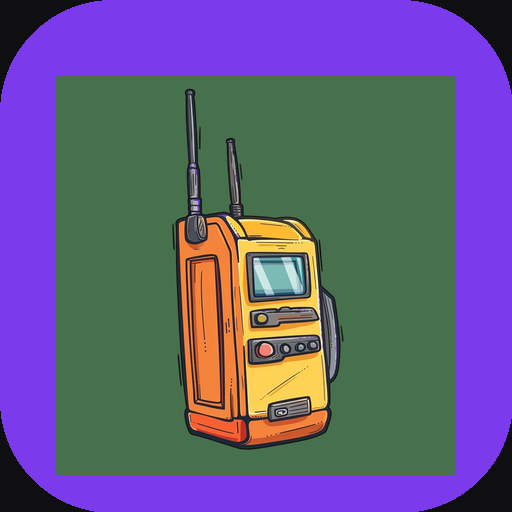
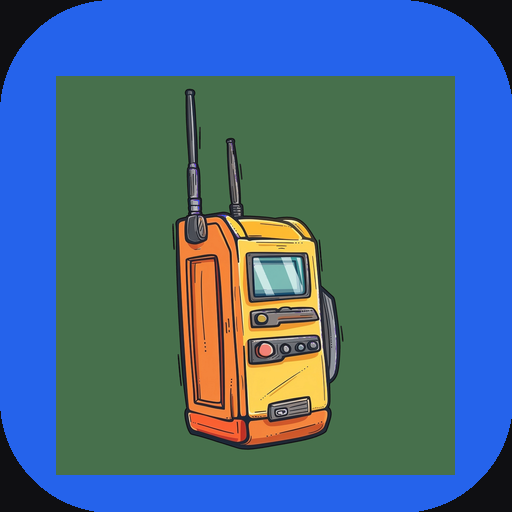
Rebrand theme from purple to PTT Group blue
Swap the brand color token (#7c3aed -> #2563eb) that drives buttons,
accents, borders and focus glow app-wide, plus theme-color meta,
manifest.json, scrollbar hover, and the purple frame baked into the
app icons. Leaves the Supasit@1981th footer signature's violet
accent untouched since it's a personal mark, not the app theme.
Bump SW cache to v4.

diff --git a/index.html b/index.html
@@ -7,7 +7,7 @@
 
   <!-- PWA Manifest -->
   <link rel="manifest" href="./manifest.json" />
-  <meta name="theme-color" content="#7c3aed" />
+  <meta name="theme-color" content="#2563eb" />
   <meta name="apple-mobile-web-app-capable" content="yes" />
   <meta name="apple-mobile-web-app-status-bar-style" content="black-translucent" />
 
@@ -30,10 +30,10 @@
           },
           colors: {
             brand: {
-              DEFAULT: '#7c3aed',
-              light: '#a78bfa',
-              dark: '#5b21b6',
-              glow: 'rgba(124, 58, 237, 0.15)'
+              DEFAULT: '#2563eb',
+              light: '#60a5fa',
+              dark: '#1e40af',
+              glow: 'rgba(37, 99, 235, 0.15)'
             },
             surface: {
               page: '#0f0f12',
@@ -66,7 +66,7 @@
     ::-webkit-scrollbar { width: 6px; height: 6px; }
     ::-webkit-scrollbar-track { background: #0f0f12; }
     ::-webkit-scrollbar-thumb { background: #2d2d38; border-radius: 999px; }
-    ::-webkit-scrollbar-thumb:hover { background: #7c3aed; }
+    ::-webkit-scrollbar-thumb:hover { background: #2563eb; }
 
     @keyframes pulse-glow {
       0%, 100% { transform: scale(1); opacity: 1; }

diff --git a/sw.js b/sw.js
@@ -45,7 +45,7 @@ self.addEventListener('notificationclick', event => {
 
 // ─── App-shell cache ──────────────────────────────────────────────────────────
 
-const CACHE_NAME   = 'pe1wt-v3';
+const CACHE_NAME   = 'pe1wt-v4';
 const STATIC_ASSETS = ['./', './index.html', './manifest.json', './icon-192.png', './icon-512.png'];
 
 self.addEventListener('install', (e) => {